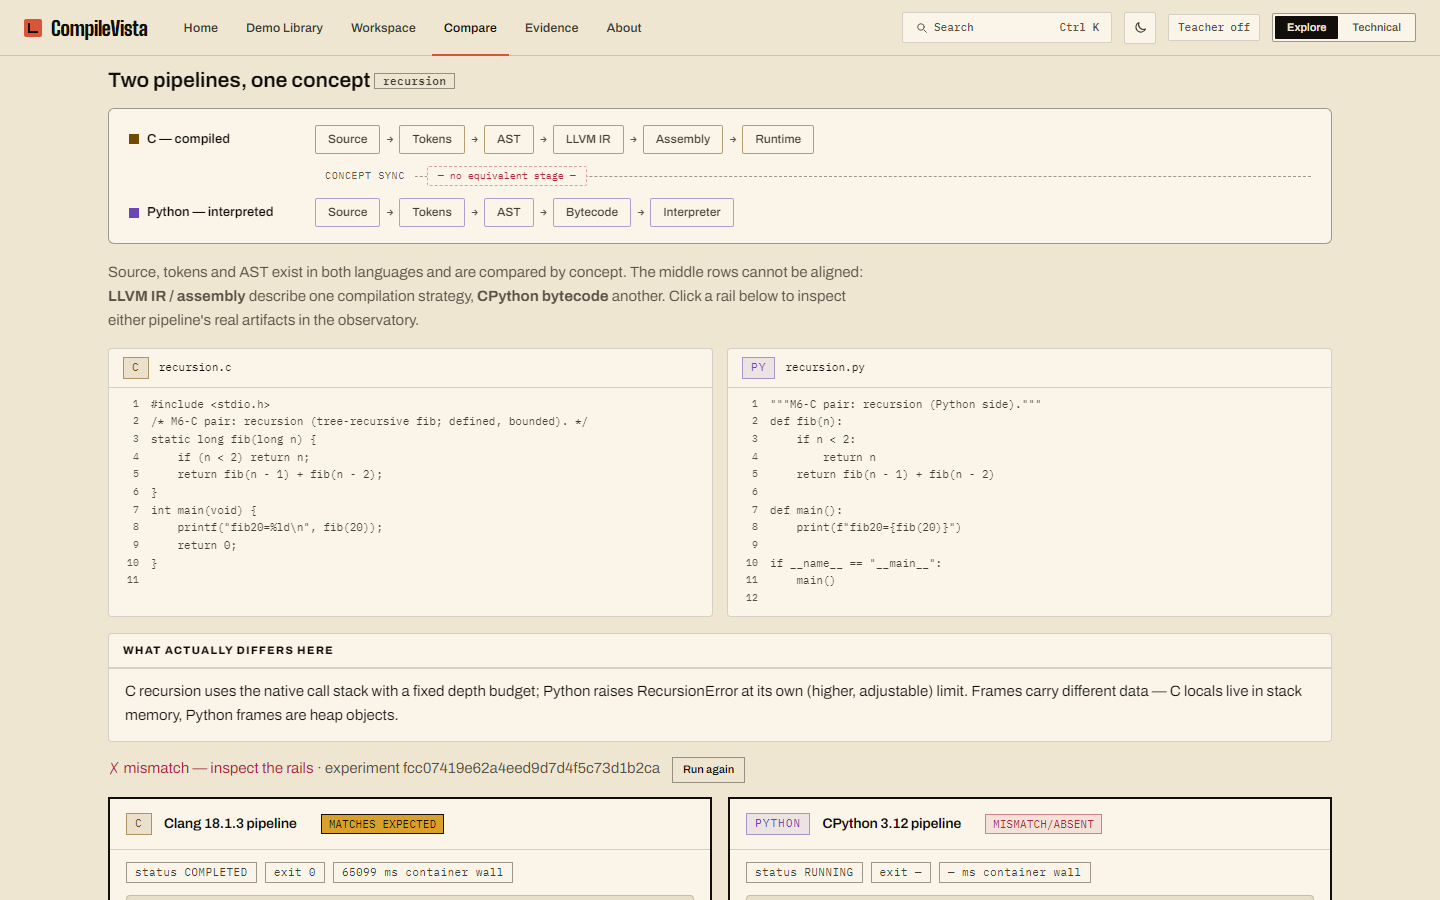
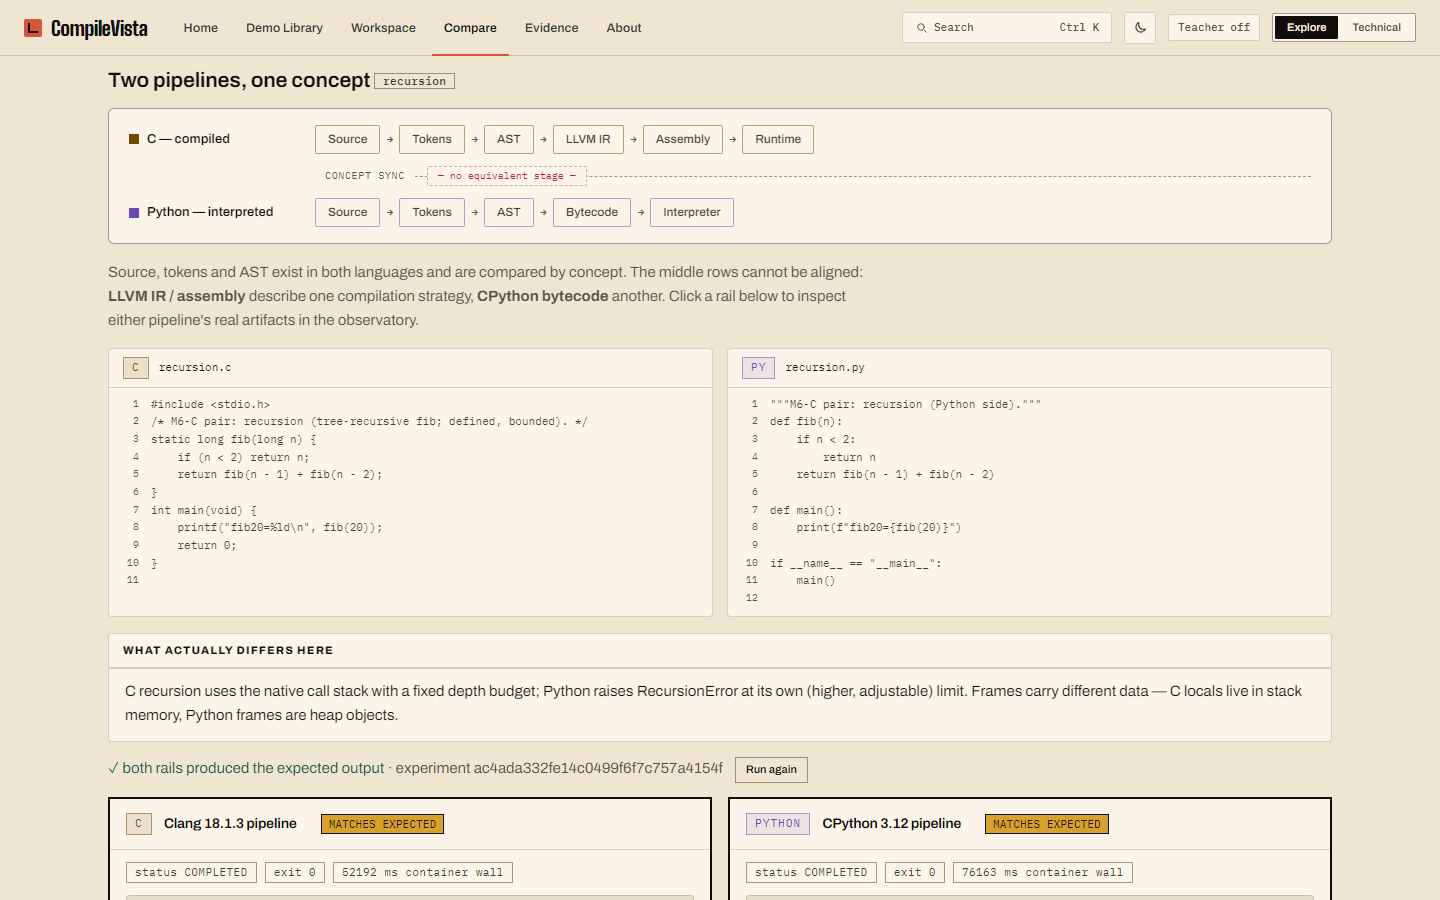
m8c/m8d: configurable compare wait; both pass with 480 s; record result

Changed region(s): [[0.0625, 0.84, 0.5625, 0.8711], [0.5625, 0.9644, 0.7812, 0.9956], [0.6875, 0.9022, 0.7812, 0.9333]]

diff --git a/e2e/m8c_journeys.py b/e2e/m8c_journeys.py
@@ -7,6 +7,7 @@ Run: backend/.venv/bin/python e2e/m8c_journeys.py   (repo root, stack running)
 from __future__ import annotations
 
 import json
+import os
 import time
 from pathlib import Path
 
@@ -190,7 +191,7 @@ def journey_compare(page: Page) -> None:
       [...document.querySelectorAll('.paircard')]
         .find((c) => c.textContent.includes('recursion'))?.click();
     }""")
-    expect(page.locator(".cmp-verdict, .err[role='alert']")).to_be_visible(timeout=150_000)
+    expect(page.locator(".cmp-verdict, .err[role='alert']")).to_be_visible(timeout=int(os.environ.get("E2E_COMPARE_TIMEOUT_MS", "150000")))
     ok(page.locator(".dualmap").is_visible(), "dual pipeline map renders")
     ok(page.locator(".dm-noalign").is_visible(), "no-equivalent-stage honestly marked")
     ok(page.locator(".cmp-sources .srcpane").count() == 2, "both sources side by side")

diff --git a/e2e/m8d_journeys.py b/e2e/m8d_journeys.py
@@ -4,6 +4,7 @@ Run: backend/.venv/bin/python e2e/m8d_journeys.py   (repo root, stack running)
 """
 from __future__ import annotations
 
+import os
 import time
 from pathlib import Path
 
@@ -185,7 +186,7 @@ def j7_compare(page) -> None:
       [...document.querySelectorAll('.paircard')]
         .find((c) => c.textContent.includes('recursion'))?.click();
     }""")
-    expect(page.locator(".cmp-verdict")).to_be_visible(timeout=150_000)
+    expect(page.locator(".cmp-verdict")).to_be_visible(timeout=int(os.environ.get("E2E_COMPARE_TIMEOUT_MS", "150000")))
     ok(page.locator(".cmp-verdict.ok").count() == 1, "both rails matched")
     shot(page, "j7_compare_1440.png")
 

diff --git a/docs/PROJECT_STATUS.md b/docs/PROJECT_STATUS.md
@@ -17,6 +17,12 @@ undiagnosed (candidate causes: host load, a growing DB with 317 executions and 5
 step for whoever picks this up: time a lone compare with the machine idle, then decide whether to raise the
 limit or investigate the backend.
 
+**Update: m8c and m8d now PASS** (`ALL CHECKS PASSED`; m8c 588 s, m8d 184 s) when run with
+`E2E_COMPARE_TIMEOUT_MS=480000`. The suites now read that variable (default still 150000, so default
+behaviour is unchanged). The earlier failures were the Compare job exceeding the 150 s wait while the host
+was busy (a game was using about a quarter of the CPU; per-side run times for the same recursion pair had
+roughly doubled since 14:51). That cause is likely but was not proven by stopping the load.
+
 ## Fourth pass: learning-layer tests, wording, phone fixes
 
 - `optLearnModel.ts` holds the lesson/quiz logic with 5 unit tests (vitest total 25). A line the compiler
